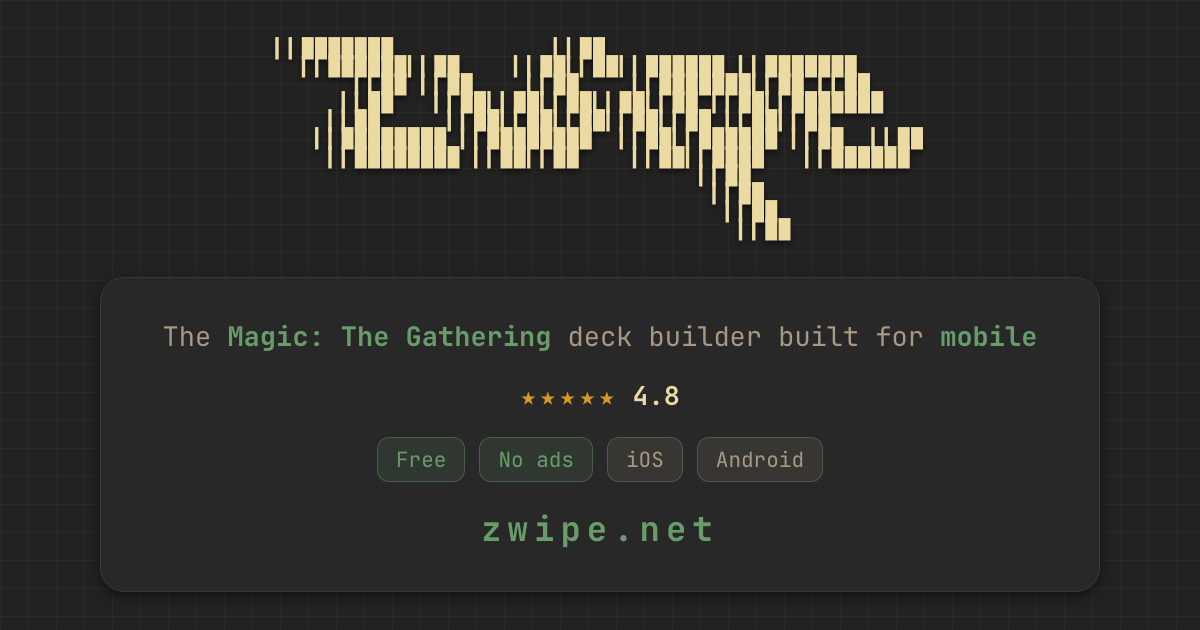
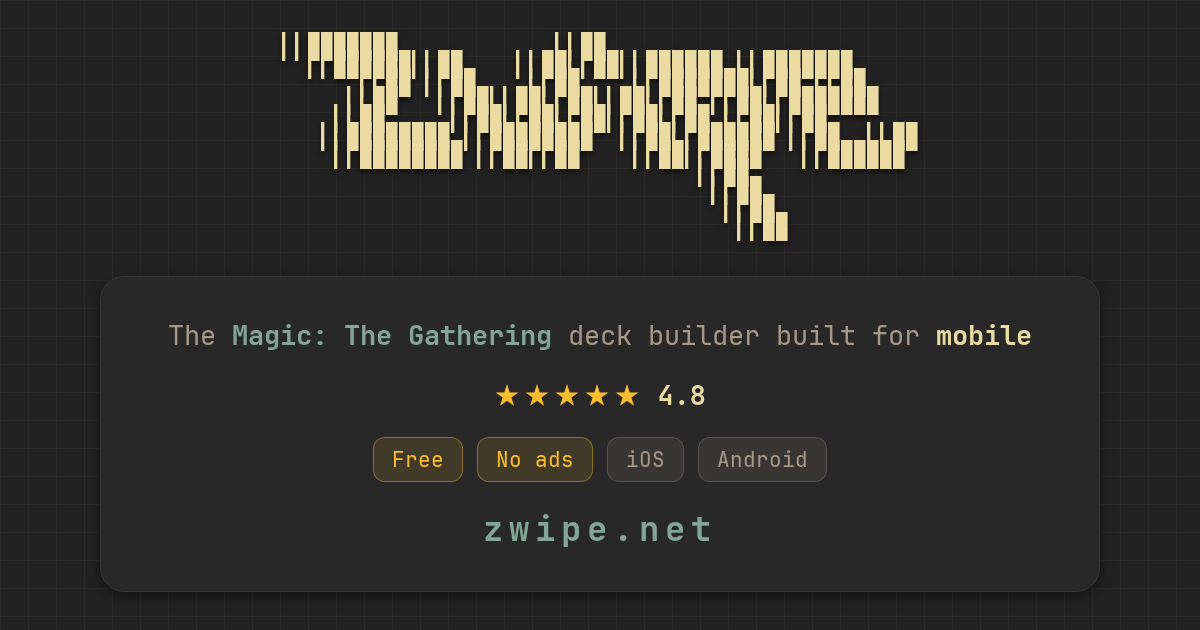
OG card: gruvbox palette roles, wordmark in the page font

diff --git a/context/marketing/og_default.html b/context/marketing/og_default.html
@@ -6,8 +6,10 @@
      Referenced by every page via zite's PageMeta as {WEB_BASE}/assets/og-default.png.
      Mirrors zite's look: the gruvbox-dark 28px grid on a darkened --bg-sink, the
      Zwipe wordmark sitting on the grid, and everything else in a hero-style
-     bubble panel. Tokens are copied from shared/themes.css :root (gruvbox-dark);
-     chips reuse the app's .stat-chip formula. The block-glyph wordmark needs the
+     bubble panel. Tokens are copied from zwipe-components/assets/themes.css
+     .theme-gruvbox-dark, and the colors play the roles zite gives them: the
+     tagline's link in palette-1, the stars and value chips in palette-5, the
+     domain in the primary accent. The block-glyph wordmark needs the
      app's self-hosted JetBrains Mono (the CDN fontsource subset drops
      U+2580-U+259F), so the font is loaded from ../../zwiper/assets/fonts.
      Rendered into zite/public/ (served verbatim at /assets/og-default.png, the
@@ -35,10 +37,11 @@
   --bg-primary: #282828;
   --text-primary: #ebdba2;
   --text-muted: #a89984;
-  --accent-primary: #689d6a;
-  --accent-secondary: #cc241d;
-  --accent-tertiary: #d79921;
-  --color-warning: #fabd2f;
+  --accent-primary: #83a598;
+  --accent-secondary: #fabd2f;
+  --accent-tertiary: #d3869b;
+  --palette-1: #83a598;
+  --palette-5: #fabd2f;
   --border-secondary: #3c3836;
   --shadow-md: 0 4px 12px rgba(0, 0, 0, 0.5);
   --grid-line: rgba(235, 219, 162, 0.04);
@@ -69,6 +72,7 @@ body {
 
 .wordmark {
   white-space: pre;
+  font-family: inherit;
   font-weight: 700;
   font-size: 22px;
   line-height: 0.82;
@@ -96,7 +100,8 @@ body {
   text-align: center;
   white-space: nowrap;
 }
-.hl { color: var(--accent-primary); font-weight: 700; }
+.hl { color: var(--text-primary); font-weight: 700; }
+.link { color: var(--palette-1); font-weight: 700; }
 
 .meta {
   display: flex;
@@ -105,7 +110,7 @@ body {
   font-size: 26px;
   font-weight: 700;
 }
-.stars { color: var(--accent-tertiary); letter-spacing: 4px; }
+.stars { color: var(--palette-5); letter-spacing: 4px; }
 .score { color: var(--text-primary); }
 
 .tags {
@@ -119,9 +124,9 @@ body {
   border: 1px solid;
 }
 .tag-value {
-  color: var(--accent-primary);
-  background-color: color-mix(in srgb, var(--accent-primary) 12%, transparent);
-  border-color: color-mix(in srgb, var(--accent-primary) 40%, transparent);
+  color: var(--palette-5);
+  background-color: color-mix(in srgb, var(--palette-5) 12%, transparent);
+  border-color: color-mix(in srgb, var(--palette-5) 40%, transparent);
 }
 .tag-plat {
   color: var(--text-muted);
@@ -151,7 +156,7 @@ body {
                                    ▎▎▉▉</pre>
 
   <div class="hero">
-    <div class="tagline">The <span class="hl">Magic: The Gathering</span> deck builder built for <span class="hl">mobile</span></div>
+    <div class="tagline">The <span class="link">Magic: The Gathering</span> deck builder built for <span class="hl">mobile</span></div>
     <div class="meta">
       <span class="stars">★★★★★</span>
       <span class="score">4.8</span>
